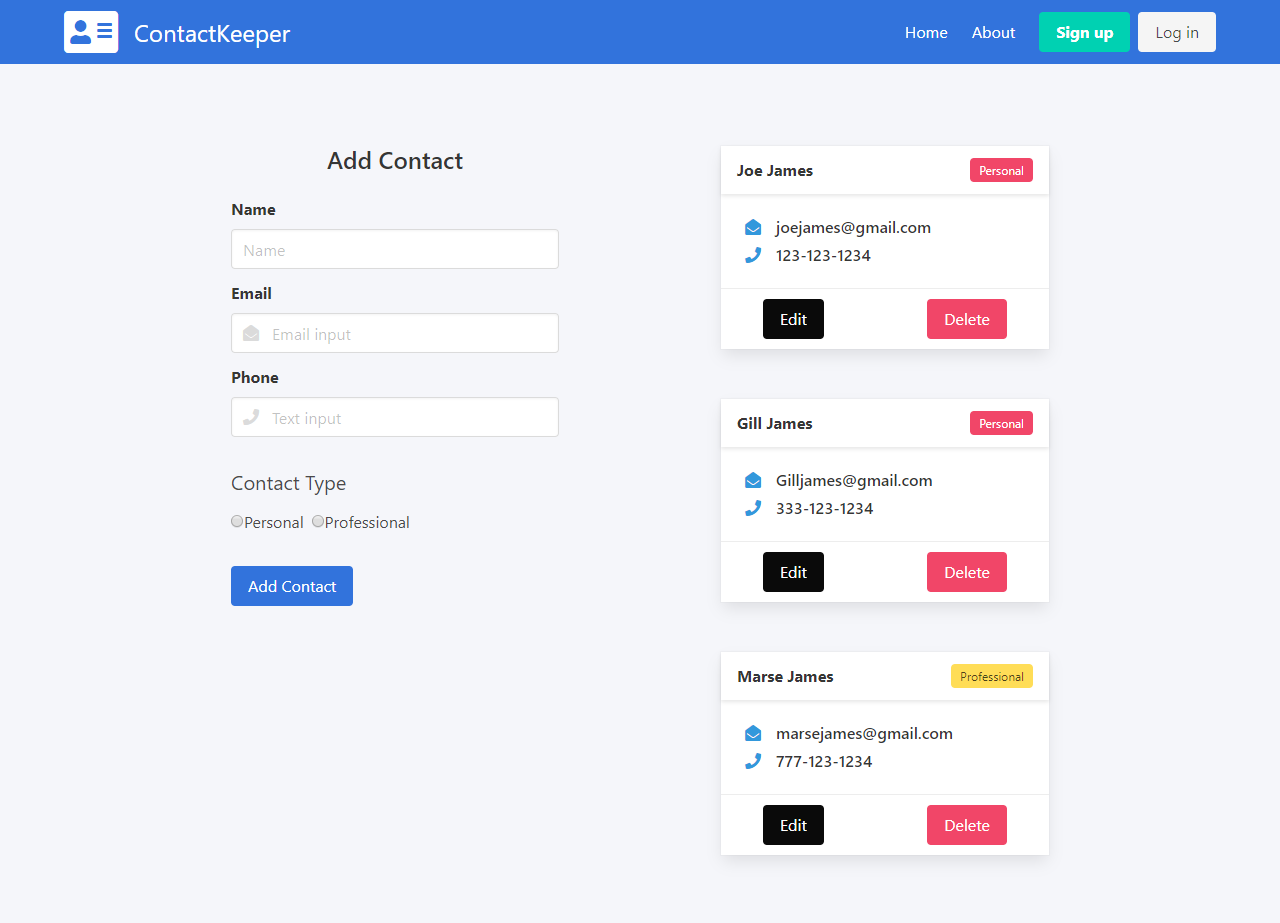
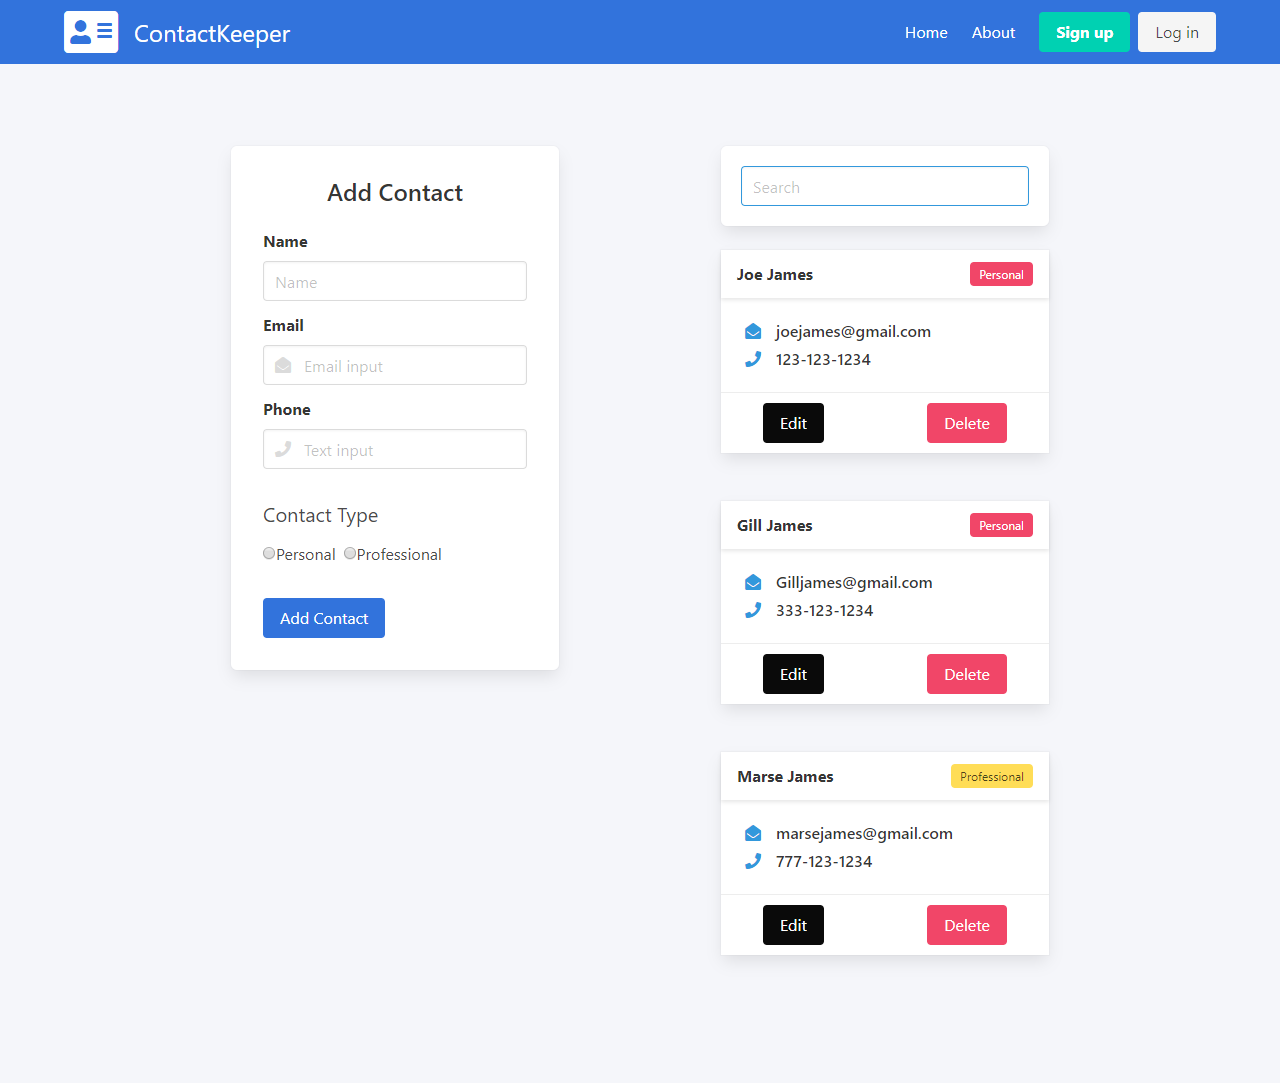
Added Search/Filter Component, Decluttured State Reducer, Updated ScreenShots, Some CSS Tweaks

diff --git a/client/src/context/contacts/ContactState.js b/client/src/context/contacts/ContactState.js
@@ -38,6 +38,7 @@ const ContactState = ({ children }) => {
       },
     ],
     current: null,
+    filtered: null,
   };
   const [state, dispatch] = useReducer(contactReducer, initialState);
 
@@ -45,32 +46,43 @@ const ContactState = ({ children }) => {
 
   const addContact = contact => {
     contact.id = uid();
-    dispatch({type: ADD_CONTACT, payload: contact})
-  }
+    dispatch({ type: ADD_CONTACT, payload: contact });
+  };
 
   //Update Contacts
 
   const updateContact = contact => {
-    dispatch({type: UPDATE_CONTACT, payload: contact})
-  }
+    dispatch({ type: UPDATE_CONTACT, payload: contact });
+  };
 
   //Delete Contacts
 
   const deleteContact = id => {
-    dispatch({type: DELETE_CONTACT, payload: id})
-  }
+    dispatch({ type: DELETE_CONTACT, payload: id });
+  };
 
   // Set Current
 
   const setCurrent = contact => {
-    dispatch({type: SET_CURRENT, payload: contact})
-  }
+    dispatch({ type: SET_CURRENT, payload: contact });
+  };
 
-   // Clear Current
+  // Clear Current
 
-   const clearCurrent = () => {
-    dispatch({type: CLEAR_CURRENT})
-  }
+  const clearCurrent = () => {
+    dispatch({ type: CLEAR_CURRENT });
+  };
+
+  //Filter Contacts
+  const filterContacts = value => {
+    dispatch({ type: FILTER_CONTACTS, payload: value });
+  };
+
+  //Clear Filter
+
+  const clearFilter = () => {
+    dispatch({ type: CLEAR_FILTER });
+  };
 
   return (
     <ContactContext.Provider
@@ -81,6 +93,8 @@ const ContactState = ({ children }) => {
         deleteContact,
         setCurrent,
         clearCurrent,
+        filterContacts,
+        clearFilter,
       }}
     >
       {children}

diff --git a/client/src/context/contacts/ReducerWare.js b/client/src/context/contacts/ReducerWare.js
@@ -1,0 +1,74 @@
+/*
+  Reducer Action-Type Handlers
+  ****************************
+* Abtracted Away function to declutter the reducer 
+*/
+
+//@action-type:  ADD_CONTACT
+const applyAddContact = (state, payload) => {
+  return { ...state, contacts: [...state.contacts, payload] };
+};
+
+//@action-type:  UPDATE_CONTACT,
+const applyUpdateContact = (state, payload) => {
+  return {
+    ...state,
+    contacts: state.contacts.map(contact =>
+      contact.id === payload.id ? payload : contact
+    ),
+  };
+};
+
+//@action-type:  DELETE_CONTACT,
+const applyDeleteContact = (state, payload) => {
+  return {
+    ...state,
+    contacts: state.contacts.filter(contact => contact.id !== payload),
+  };
+};
+
+//@action-type:  FILTER_CONTACTS,
+const applyFilter = (state, payload) => {
+  return {
+    ...state,
+    filtered: state.contacts.filter(
+      contact =>
+        contact.name.toLowerCase().includes(payload.toLowerCase()) ||
+        contact.email.toLowerCase().includes(payload.toLowerCase())
+    ),
+  };
+};
+
+//@action-type:  CLEAR_FILTER
+const applyClearFilter = state => {
+  return {
+    ...state,
+    filtered: null,
+  };
+};
+
+//@action-type:  SET_CURRENT
+const applySetCurrent = (state, payload) => {
+  return {
+    ...state,
+    current: payload,
+  };
+};
+
+//@action-type:  CLEAR_CURRENT
+const applyClearCurrent = state => {
+  return {
+    ...state,
+    current: null,
+  };
+};
+
+export default {
+  applyAddContact,
+  applyUpdateContact,
+  applyDeleteContact,
+  applyFilter,
+  applyClearFilter,
+  applySetCurrent,
+  applyClearCurrent,
+};

diff --git a/client/src/context/contacts/contactReducer.js b/client/src/context/contacts/contactReducer.js
@@ -8,35 +8,31 @@ import {
   CLEAR_FILTER,
 } from '../types';
 
+import ReducerWare from './ReducerWare';
+
 function contactReducer(state, { type, payload }) {
-  switch (type) {
-    case ADD_CONTACT:
-      return { ...state, contacts: [...state.contacts, payload] };
-    case UPDATE_CONTACT:
-      return {
-        ...state,
-        contacts: state.contacts.map(contact =>
-          contact.id === payload.id ? payload : contact
-        ),
-      };
-    case DELETE_CONTACT:
-      return {
-        ...state,
-        contacts: state.contacts.filter(contact => contact.id !== payload),
-      };
-    case SET_CURRENT:
-      return {
-        ...state,
-        current: payload,
-      };
-    case CLEAR_CURRENT:
-      return {
-        ...state,
-        current: null,
-      };
-    default:
-      return state;
+  if (type === ADD_CONTACT) {
+    return ReducerWare.applyAddContact(state, payload);
   }
+  if (type === UPDATE_CONTACT) {
+    return ReducerWare.applyUpdateContact(state, payload);
+  }
+  if (type === DELETE_CONTACT) {
+    return ReducerWare.applyDeleteContact(state, payload);
+  }
+  if (type === FILTER_CONTACTS) {
+    return ReducerWare.applyFilter(state, payload);
+  }
+  if (type === CLEAR_FILTER) {
+    return ReducerWare.applyClearFilter(state);
+  }
+  if (type === SET_CURRENT) {
+    return ReducerWare.applySetCurrent(state, payload);
+  }
+  if (type === CLEAR_CURRENT) {
+    return ReducerWare.applyClearCurrent(state);
+  }
+  return state;
 }
 
 export default contactReducer;

diff --git a/client/src/components/contacts/ContactCard.js b/client/src/components/contacts/ContactCard.js
@@ -3,10 +3,16 @@ import ContactContext from '../../context/contacts/ContactContext';
 
 export const ContactCard = ({ contact }) => {
   const { id, name, email, phone, type } = contact;
-  const { deleteContact, setCurrent } = useContext(ContactContext);
+  const { deleteContact, setCurrent, clearCurrent } = useContext(
+    ContactContext
+  );
+  const handleDelete = e => {
+    deleteContact(id);
+    clearCurrent();
+  };
 
   return (
-    <div className="card has-rem-margin-bottom-3 has-margin-top-50">
+    <div className="card has-rem-margin-bottom-3 has-margin-top-15">
       <header className="card-header">
         <p className="card-header-title">{name}</p>
         <div className="card-header-icon">
@@ -44,7 +50,7 @@ export const ContactCard = ({ contact }) => {
         </button>
         <button
           className="button is-danger has-rem-margin-right-2"
-          onClick={e => deleteContact(id)}
+          onClick={handleDelete}
         >
           Delete
         </button>

diff --git a/client/src/components/contacts/ContactList.js b/client/src/components/contacts/ContactList.js
@@ -1,15 +1,21 @@
 import React, { useContext } from 'react';
 import ContactContext from '../../context/contacts/ContactContext';
 import ContactCard from './ContactCard';
+import ContactFilter from './ContactFilter';
 
 const ContactList = () => {
   const contactContext = useContext(ContactContext);
-  const { contacts } = contactContext;
+  const { contacts, filtered } = contactContext;
   return (
     <div>
-      {contacts.map(contact => (
-        <ContactCard key={contact.name} contact={contact} />
-      ))}
+      <ContactFilter />
+      {filtered !== null
+        ? filtered.map(contact => (
+            <ContactCard key={contact.name} contact={contact} />
+          ))
+        : contacts.map(contact => (
+            <ContactCard key={contact.name} contact={contact} />
+          ))}
     </div>
   );
 };

diff --git a/client/src/components/contacts/ContactFilter.js b/client/src/components/contacts/ContactFilter.js
@@ -1,0 +1,34 @@
+import React, { useState, useEffect, useContext } from 'react';
+import ContactContext from '../../context/contacts/ContactContext';
+
+const ContactFilter = () => {
+  const { filterContacts, clearFilter } = useContext(ContactContext);
+  const [value, setValue] = useState('');
+
+  const onChange = e => {
+    setValue(e.target.value);
+  };
+
+  useEffect(() => {
+    if (value !== '') {
+      filterContacts(value);
+    } else {
+      clearFilter();
+    }
+  }, [value]);
+
+  return (
+    <form className="box search-contacts">
+      <input
+        className="input is-outlined is-info"
+        placeholder="Search"
+        type="text"
+        name="search"
+        value={value}
+        onChange={onChange}
+      />
+    </form>
+  );
+};
+
+export default ContactFilter;

diff --git a/client/src/components/contacts/ContactForm.js b/client/src/components/contacts/ContactForm.js
@@ -44,12 +44,9 @@ const ContactForm = () => {
     } else {
       setContact(current);
     }
-  }, [ContactContext, current]);
+  }, [current]);
   return (
-    <form
-      onSubmit={onSubmit}
-      className="has-rem-margin-bottom-3 has-margin-top-50"
-    >
+    <form onSubmit={onSubmit} className="box has-rem-padding-2">
       <h2 style={{ textAlign: 'center' }} className="title is-4">
         {current ? 'Update Contact' : 'Add Contact'}
       </h2>

diff --git a/client/src/components/pages/Home.js b/client/src/components/pages/Home.js
@@ -5,7 +5,7 @@ import ContactForm from '../contacts/ContactForm';
 export const Home = () => {
   return (
     <div className="container">
-      <div className="columns is-centered">
+      <div className="columns is-centered has-rem-margin-bottom-3 has-margin-top-50">
         <div className="column is-4 has-rem-padding-2">
           <ContactForm />
         </div>

diff --git a/client/src/App.css b/client/src/App.css
@@ -16180,3 +16180,7 @@ body {
   display: flex;
   align-items: center;
   justify-content: space-between; }
+
+.search-contacts {
+  display: flex;
+  flex-direction: column; }

diff --git a/client/src/styles/bulma.scss b/client/src/styles/bulma.scss
@@ -11,3 +11,9 @@ body {
   align-items: center;
   justify-content: space-between;
 }
+
+.search-contacts{
+  display: flex;
+  flex-direction: column;
+  
+}
